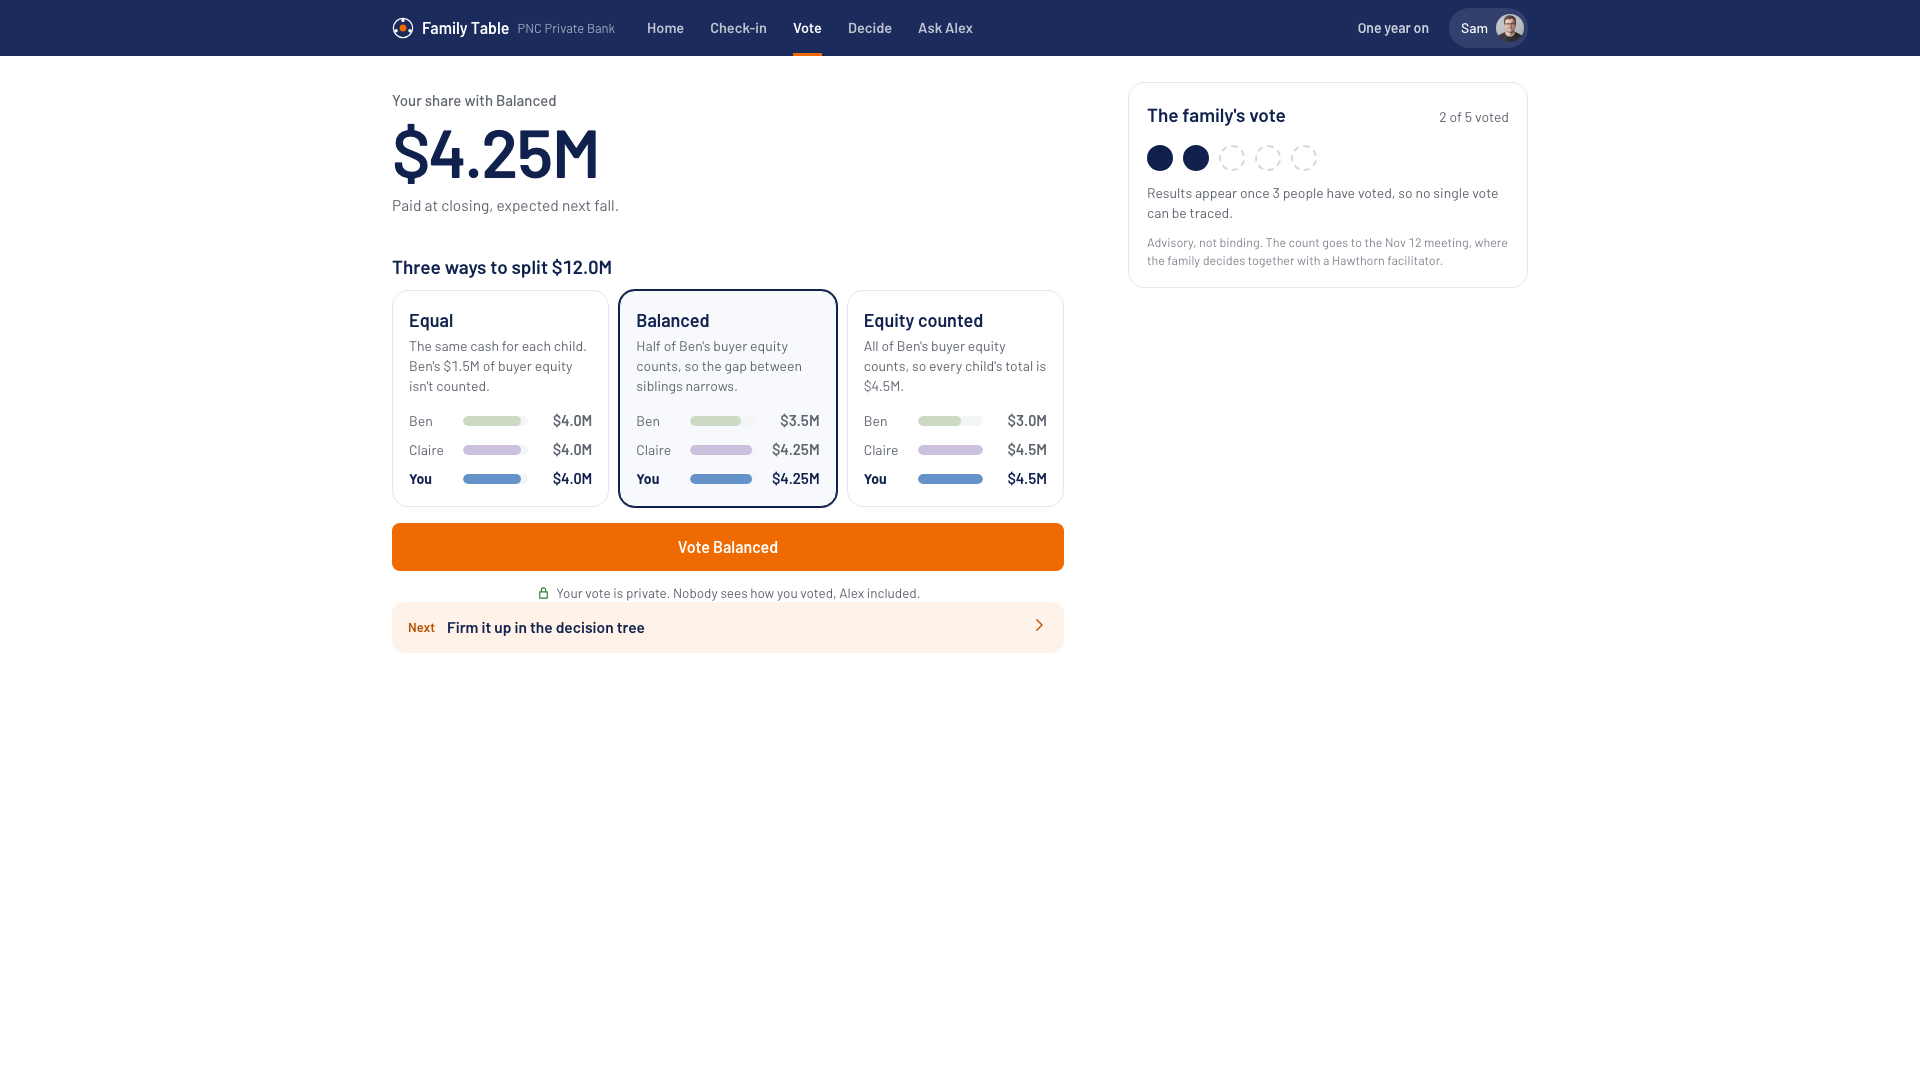
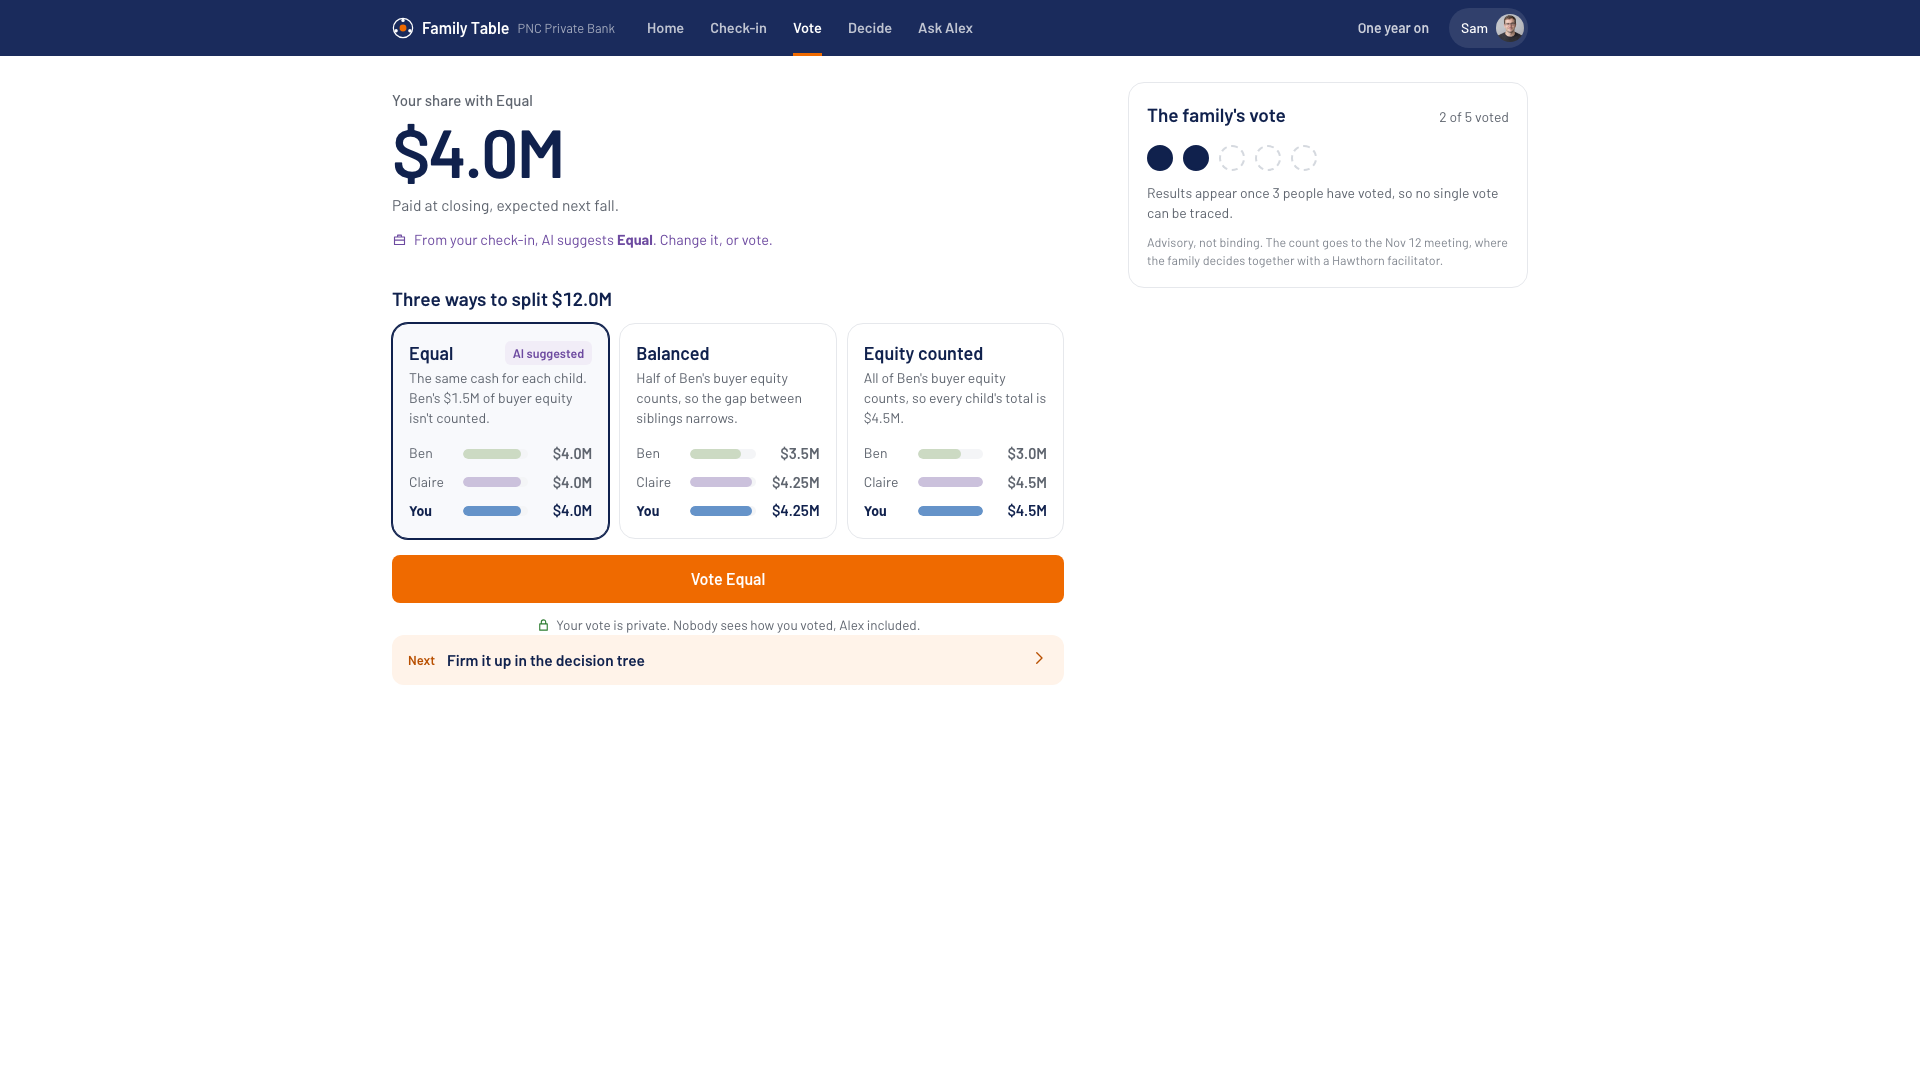
Prototype: each input pre-fills the next step
AI suggests, the person confirms; nothing submits itself.

- Check-in to vote: a family member's fairness stance picks the
  suggested split, labelled "From your check-in, AI suggests".
- Setup to options: with no suggestion, the default is Margaret's
  proposal from setup, labelled as hers.
- Vote to decision tree: the vote answers the first question, marked
  "From your vote", and the screen opens on 4 plans left, not 12. The
  old fallback to a shared default is gone, so an unvoted tree starts
  at 12.
- Decision tree to tasks: once a member sends a plan, Alex's specialist
  list adds the tasks that plan implies (trust, earnout, the split in
  the will), each marked "Added from <name>'s plan", and the decision
  log records it. Unsent paths stay private.

Picks are per person now instead of one shared value. Tour hints for
steps 7 and 8 describe the pre-fill. Screenshots regenerated.

Changed region(s): [[0.1875, 0.2139, 0.5625, 0.6417], [0.25, 0.0917, 0.3125, 0.1833]]

diff --git a/prototype/app.js b/prototype/app.js
@@ -13,7 +13,7 @@
 
   // ---------- state ----------
   const KEY = "family-table-v8";
-  const fresh = () => ({ shared: [], optOut: false, approved: false, started: false, routed: {}, pick: "balanced", votes: {},
+  const fresh = () => ({ shared: [], optOut: false, approved: false, started: false, routed: {}, pick: "balanced", picked: {}, votes: {},
     answers: {}, intro: {}, invited: false, chapter: [], agreed: {}, msgs: [], replies: {}, drafts: {}, calls: {}, confirmed: {},
     shareReply: {}, tour: -1, pv: { preset: "wilson", value: 48, kids: 3, inBiz: 1 }, previewed: false, goals: ["fair", "live", "chapter"],
     fairMeans: null, spend: 300, foundation: 2, keepName: false, tree: {}, pathSent: {}, presented: false });
@@ -55,6 +55,12 @@
   const heirSum = w => heirs().reduce((s, h) => s + gifts(w)[h.id], 0);
   // Votes are private: screens only ever read the counts.
   const votes = () => Object.assign({}, S.votes, state.votes);
+  // Pre-fills: an earlier input suggests the next step, and the person confirms or changes it. Nothing submits itself.
+  const stanceToOption = v => v >= 1 ? "equal" : v <= -1 ? "equity" : "balanced";
+  const suggestedPick = pid => { const th = S.themes.find(t => t.id === "fair"), v = th && th.s[pid]; return v === undefined || P[pid].status !== "checked" ? null : stanceToOption(v); };
+  const familyDefault = () => state.fairMeans || "equal"; // Margaret's proposal from setup, else her stated plan
+  const pickSource = pid => state.picked[pid] ? "yours" : KIDS.includes(pid) && suggestedPick(pid) ? "checkin" : state.fairMeans ? "margaret" : "plan";
+  const currentPick = pid => state.picked[pid] || (KIDS.includes(pid) && suggestedPick(pid)) || familyDefault();
   const tally = () => { const t = Object.fromEntries(S.options.map(o => [o.id, 0])); Object.values(votes()).forEach(v => t[v]++); return t; };
   // Messages to Alex: the seeded inbox plus anything sent in this session.
   const messages = () => [...S.inbox, ...state.msgs];
@@ -235,9 +241,9 @@
     { side: "Advisor", stage: "Align", route: "advisor/guide", title: "Alex walks in with a guide",
       hint: "AI turns the brief into a 90-minute run of show, with what to say, show and ask. Tap Present to the family.", target: '[data-act="present-open"]', done: () => state.presented },
     { side: "Family", stage: "Allocate", route: "me/sam/options", title: "Sam sees his number, then votes",
-      hint: "Each option shows every child's share. Votes are private, and counts appear only after 3 votes. Cast Sam's vote.", target: '[data-act="vote"]', done: () => !!state.votes.sam },
+      hint: "From Sam's check-in, AI suggests Equal. Each option shows every child's share, and votes stay private. Cast Sam's vote, or change it first.", target: '[data-act="vote"]', done: () => !!state.votes.sam },
     { side: "Family", stage: "Allocate", route: "me/sam/decide", title: "Sam firms up the decision",
-      hint: "Three choices narrow 12 possible plans to one. Choose how the gift is paid.", target: '[data-act="tree"][data-k="pay"]', done: () => !!(state.tree.sam && state.tree.sam.pay) },
+      hint: "Sam's vote settled the first choice: 4 plans left, not 12. Choose how the gift is paid. When Sam sends the finished plan, Alex's task list follows it.", target: '[data-act="tree"][data-k="pay"]', done: () => !!(state.tree.sam && state.tree.sam.pay) },
     { side: "Advisor", stage: "Activate", route: "advisor/inbox", title: "Sam asks. AI drafts. Alex sends.",
       prep: () => { if (!state.msgs.some(m => m.from === "sam")) state.msgs.push({ id: "sam-demo", from: "sam", qi: 0, at: "Just now" }); },
       hint: "Sam's question went to Alex. The draft uses calculator numbers and passes the checks. Approve and send.", target: '[data-act="send"][data-from="sam"]',
@@ -354,18 +360,20 @@
 
   // ---------- family: vote ----------
   function options(pid) {
-    const kid = KIDS.includes(pid), o = OPT[state.pick], g = gifts(o.w), mine = votes()[pid];
+    const kid = KIDS.includes(pid), cur = currentPick(pid), o = OPT[cur], g = gifts(o.w), mine = votes()[pid], src = pickSource(pid);
+    const note = mine ? "" : src === "checkin" ? `<p class="prefill">${ic("brief", 15)}<span>From your check-in, AI suggests <b>${o.label}</b>. Change it, or vote.</span></p>`
+      : src === "margaret" ? `<p class="prefill">${ic("brief", 15)}<span>${pid === "margaret" ? "Your" : "Margaret's"} proposal from setup: <b>${o.label}</b>. Change it, or vote.</span></p>` : "";
     const hero = kid
       ? `<div class="label">Your share with <span data-pickname>${o.label}</span></div><div class="value big" data-count="${g[pid]}" data-fmt="m" data-key="mine-${pid}">${money(g[pid])}</div>
          <div class="caption">${pid === "ben" ? "In cash, plus your $1.5M of NorthPeak equity." : "Paid at closing, expected next fall."}</div>`
       : `<div class="label">The family gift</div><div class="value big" data-count="12" data-fmt="m">${money(12)}</div><div class="caption">Split three ways. Ben also keeps $1.5M of NorthPeak equity, and that's what the options disagree on.</div>`;
-    const cards = S.options.map(x => `<button class="opt ${x.id === state.pick ? "on" : ""}" data-act="pick" data-id="${x.id}" aria-pressed="${x.id === state.pick}">
-        <span class="opt-head"><b>${x.label}</b>${mine === x.id ? `<span class="badge g">Your vote</span>` : ""}</span><span class="opt-line">${x.line}</span>${optBars(x, pid)}</button>`).join("");
-    const cta = mine === state.pick
+    const cards = S.options.map(x => `<button class="opt ${x.id === cur ? "on" : ""}" data-act="pick" data-id="${x.id}" aria-pressed="${x.id === cur}">
+        <span class="opt-head"><b>${x.label}</b>${mine === x.id ? `<span class="badge g">Your vote</span>` : !mine && src === "checkin" && x.id === cur ? `<span class="badge p">AI suggested</span>` : ""}</span><span class="opt-line">${x.line}</span>${optBars(x, pid)}</button>`).join("");
+    const cta = mine === cur
       ? `<button class="btn done block" disabled>${ic("check", 18, 2.4)} You voted ${o.label}</button><p class="micro faint center">You can change your vote until the Nov 12 meeting.</p>`
       : `<button class="btn block" data-act="vote">${mine ? `Change my vote to ${o.label}` : `Vote ${o.label}`}</button>`;
     return `<div class="page"><div class="cols"><div class="col-main">
-      <section class="hero">${hero}</section>
+      <section class="hero">${hero}${note}</section>
       <section class="section"><div class="section-head"><h2>Three ways to split $12.0M</h2></div><div class="opts">${cards}</div>
         <div class="vote-cta">${cta}<p class="privacy">${ic("lock", 15)} Your vote is private. Nobody sees how you voted, Alex included.</p></div>
         ${nextLink(`me/${pid}/decide`, "Firm it up in the decision tree")}</section>
@@ -521,12 +529,13 @@
   function advPlan() {
     const log = [...S.ledger,
       ...(state.approved ? [{ t: "Today", who: "Alex Lee", what: "Approved the brief for Nov 12." }] : []),
+      ...(sentPath() ? [{ t: "Today", who: "Plan builder", what: `Drafted specialist tasks from ${sentPath().who}'s plan. Alex reviews each one.` }] : []),
       ...messages().filter(m => state.replies[m.id] != null).map(m => ({ t: "Today", who: "Alex Lee", what: `Replied to ${P[m.from].short}, AI draft reviewed.` })),
       ...Object.keys(state.agreed).map(id => ({ t: "Today", who: P[id].name, what: "Agreed to the plan in principle." }))];
     return `<div class="page"><div class="cols"><div class="col-main">
       <section class="hero"><div class="label">Heading to heirs who bank elsewhere</div><div class="value huge">${range(heirSum(0), heirSum(1))}</div><div class="caption">${heirs().map(h => h.short).join(" and ")} could receive this at closing. Neither banks with PNC today.</div></section>
       <section class="section"><div class="section-head"><h2>Introduce PNC</h2><span class="aside">With Margaret's agreement</span></div><div class="rows">${heirs().map(h => `<div class="row">${av(h)}<span class="tx"><b>${h.name}</b><span>${range(gifts(0)[h.id], gifts(1)[h.id])} at closing</span></span>${state.intro[h.id] ? `<span class="badge g">Intro requested</span>` : `<button class="btn ghost sm" data-act="intro" data-id="${h.id}">Introduce</button>`}</div>`).join("")}</div></section>
-      <section class="section"><div class="section-head"><h2>Specialists</h2><span class="aside">${S.tasks.length} teams, one plan</span></div><div class="rows">${S.tasks.map(t => `<div class="row"><span class="tx"><b>${t.what}</b><span>${t.who}, due ${t.due}</span></span><span class="badge ${t.status === "Booked" ? "g" : t.status.startsWith("Waiting") ? "p" : "n"}">${t.status}</span></div>`).join("")}</div></section>
+      <section class="section"><div class="section-head"><h2>Specialists</h2><span class="aside">${sentPath() ? `Updated from ${sentPath().who}'s plan` : `${S.tasks.length} teams, one plan`}</span></div><div class="rows">${tasksFor().map(t => `<div class="row"><span class="tx"><b>${t.what}</b><span>${t.who}, due ${t.due}${t.from ? `. Added from ${t.from}'s plan` : ""}</span></span><span class="badge ${t.status === "Booked" ? "g" : t.status.startsWith("Waiting") ? "p" : "n"}">${t.status}</span></div>`).join("")}</div></section>
       </div><aside class="col-side">${tallyPanel(true)}
         <div class="panel"><div class="section-head"><h2>Decision log</h2></div><div class="rows">${log.map(l => `<div class="row"><span class="tx"><b>${l.who}</b><span>${l.what}</span></span><span class="rt micro faint">${l.t}</span></div>`).join("")}</div></div>
         ${nextLink("year-one", "One year on")}
@@ -636,14 +645,28 @@
   }
 
   // ---------- family: decision tree ----------
-  const pathFor = pid => Object.assign({ count: votes()[pid] || state.pick }, state.tree[pid] || {});
+  // The vote answers the tree's first question until the person changes it.
+  const pathFor = pid => Object.assign(votes()[pid] ? { count: votes()[pid] } : {}, state.tree[pid] || {});
+  const autoCount = pid => !!votes()[pid] && pathFor(pid).count === votes()[pid];
+  // Alex's specialist list follows a plan a family member sent. Paths that weren't sent stay private.
+  const sentPath = () => { for (const id of ["sam", "claire", "ben", "margaret"]) if (state.pathSent[id]) { const p = pathFor(id); if (p.pay) return { who: P[id].short, path: p }; } return null; };
+  const tasksFor = () => {
+    const c = sentPath(); if (!c) return S.tasks;
+    const p = c.path, add = [];
+    if (p.pay === "trust") add.push({ who: "Trust specialist", what: "Set up the family trust that pays the gifts over 10 years", due: "Dec 1", status: "Requested", from: c.who });
+    if (p.pay === "close") add.push({ who: "Wealth advisor", what: "Open accounts for Claire and Sam before closing, so the gifts land at PNC", due: "Nov 26", status: "Requested", from: c.who });
+    if (p.earn === "half") add.push({ who: "Tax specialist", what: "Tax treatment of the earnout, half to the children", due: "Dec 8", status: "Requested", from: c.who });
+    if (p.count) add.push({ who: "Estate attorney", what: `Write the ${OPT[p.count].label} split into the updated will`, due: "Nov 19", status: "Requested", from: c.who });
+    const dup = t => (p.pay === "trust" && t.who === "Trust specialist") || (p.pay === "close" && t.who === "Wealth advisor");
+    return [...add, ...S.tasks.filter(t => !dup(t))];
+  };
   function decide(pid) {
     const path = pathFor(pid), T = S.tree, chosen = T.filter(n => path[n.id]).length;
     let left = 1; T.forEach(n => { if (!path[n.id]) left *= n.opts.length; });
     const vs = votes(), nv = Object.keys(vs).length, t = tally(), lead = S.options.reduce((a, o) => t[o.id] > t[a.id] ? o : a, S.options[0]);
     const levels = T.map((n, i) => {
       if (i > 0 && !path[T[i - 1].id]) return "";
-      return `<li class="dt-node ${path[n.id] ? "done" : "open"}"><span class="dt-dot">${path[n.id] ? ic("check", 14, 2.8) : i + 1}</span><div class="dt-body"><b>${n.q}</b>
+      return `<li class="dt-node ${path[n.id] ? "done" : "open"}"><span class="dt-dot">${path[n.id] ? ic("check", 14, 2.8) : i + 1}</span><div class="dt-body"><b>${n.q}</b>${n.id === "count" && autoCount(pid) ? `<span class="badge p dt-from">From your vote</span>` : ""}
         <div class="dt-opts">${n.opts.map(([id, l, s]) => `<button class="dt-opt ${path[n.id] === id ? "on" : ""}" data-act="tree" data-k="${n.id}" data-id="${id}" aria-pressed="${path[n.id] === id}"><b>${l}</b><span>${s}</span></button>`).join("")}</div>
         ${n.id === "count" && nv >= MIN_GROUP ? `<p class="micro faint">The family's private vote leans ${lead.label}, ${t[lead.id]} of ${nv}. Counts only.</p>` : ""}</div></li>`;
     }).join("");
@@ -653,12 +676,12 @@
       outcome = `<section class="panel outcome"><div class="section-head"><h2>Your plan</h2><span class="aside">1 of 12</span></div>
         <div class="obars">${KIDS.map(k => `<span class="ob ${k === pid ? "mine" : ""}"><span class="ob-n">${k === pid ? "You" : P[k].short}</span><span class="ob-t"><i style="width:${(g[k] / mx * 100).toFixed(1)}%;background:${P[k].color}"></i>${later ? `<i class="later" style="width:${(later / mx * 100).toFixed(1)}%"></i>` : ""}</span><b>${money(g[k] + later)}</b></span>`).join("")}</div>
         <p class="small muted" style="margin-top:10px">${path.pay === "trust" ? `Paid through a family trust: ${pid && KIDS.includes(pid) ? `about ${kOrM(g[pid] / 10)} a year for you` : "about a tenth of each share a year"}, for 10 years.` : "Paid in cash at closing, next fall."}${later ? ` Plus ${money(later)} each later, only if the earnout targets are met (striped).` : ""}</p>
-        ${KIDS.includes(pid) || pid === "margaret" ? (state.pathSent[pid] ? `<button class="btn done block" disabled>${ic("check", 18, 2.4)} Sent to Alex for Nov 12</button>` : `<button class="btn block" data-act="send-path">Send my path to Alex for Nov 12</button>`) : ""}
+        ${KIDS.includes(pid) || pid === "margaret" ? (state.pathSent[pid] ? `<button class="btn done block" disabled>${ic("check", 18, 2.4)} Sent to Alex for Nov 12</button><p class="prefill">${ic("brief", 15)}<span>Alex's specialist list now follows your plan.</span></p>` : `<button class="btn block" data-act="send-path">Send my path to Alex for Nov 12</button>`) : ""}
         <p class="micro faint" style="margin-top:8px">Only Alex sees a path you send. The family decides together on Nov 12; this is in principle until counsel confirms it.</p></section>`;
     }
     return `<div class="page"><div class="cols"><div class="col-main">
       <section class="hero"><div class="label">Possible plans left</div><div class="value huge"><span>${left}</span><span class="unit">of 12</span></div>
-        <div class="caption">Three choices turn twelve possible plans into one. Settle them in order; each one shows what it does to every share.</div>
+        <div class="caption">${autoCount(pid) ? `Your vote settled the first choice, so ${left} plans are left. Two more choices turn them into one.` : "Three choices turn twelve possible plans into one. Settle them in order; each one shows what it does to every share."}</div>
         <div class="dt-prog" aria-label="${chosen} of 3 settled">${T.map(n => `<i class="${path[n.id] ? "on" : ""}"></i>`).join("")}</div></section>
       <section class="section"><ol class="dtree">${levels}</ol></section>
       </div><aside class="col-side">${outcome || `<section class="panel"><div class="section-head"><h2>Your plan</h2></div><p class="small muted">Settle all three choices to see every child's number under your plan.</p></section>`}
@@ -818,8 +841,8 @@
     else if (a === "chapter") set({ chapter: state.chapter.includes(id) ? state.chapter.filter(x => x !== id) : [...state.chapter, id] });
     else if (a === "intro") set({ intro: Object.assign({}, state.intro, { [id]: true }) });
     else if (a === "agree") set({ agreed: Object.assign({}, state.agreed, { [id]: true }) });
-    else if (a === "pick") set({ pick: id });
-    else if (a === "vote" && v && v !== "alex") set({ votes: Object.assign({}, state.votes, { [v]: state.pick }) });
+    else if (a === "pick" && v) set({ picked: Object.assign({}, state.picked, { [v]: id }) });
+    else if (a === "vote" && v && v !== "alex") set({ votes: Object.assign({}, state.votes, { [v]: currentPick(v) }) });
     else if (a === "send-q" && v) set({ msgs: [...state.msgs, { id: v + "-" + Date.now(), from: v, qi: +id, at: "Just now" }] });
     else if (a === "send-free" && v) {
       const box = app.querySelector("textarea[data-compose]"), text = box ? box.value.trim() : "";

diff --git a/prototype/styles.css b/prototype/styles.css
@@ -227,6 +227,10 @@ button.row.pick.on b { color: var(--pos); }
 .ob.mine .ob-t i { opacity: 1; }
 .ob.mine b { color: var(--navy); }
 .vote-cta { margin-top: 16px; }
+.prefill { display: flex; align-items: flex-start; gap: 7px; margin-top: 12px; font-size: 14.5px; color: var(--purple); line-height: 1.4; }
+.prefill svg { flex: none; margin-top: 3px; }
+.prefill b { color: inherit; }
+.dt-from { margin-left: 8px; vertical-align: 2px; }
 .vote-cta .micro { margin-top: 8px; }
 .privacy { display: block; font-size: 13.5px; color: var(--sub); margin-top: 12px; text-align: center; }
 .privacy svg { color: var(--pos); vertical-align: -2px; margin-right: 3px; }
